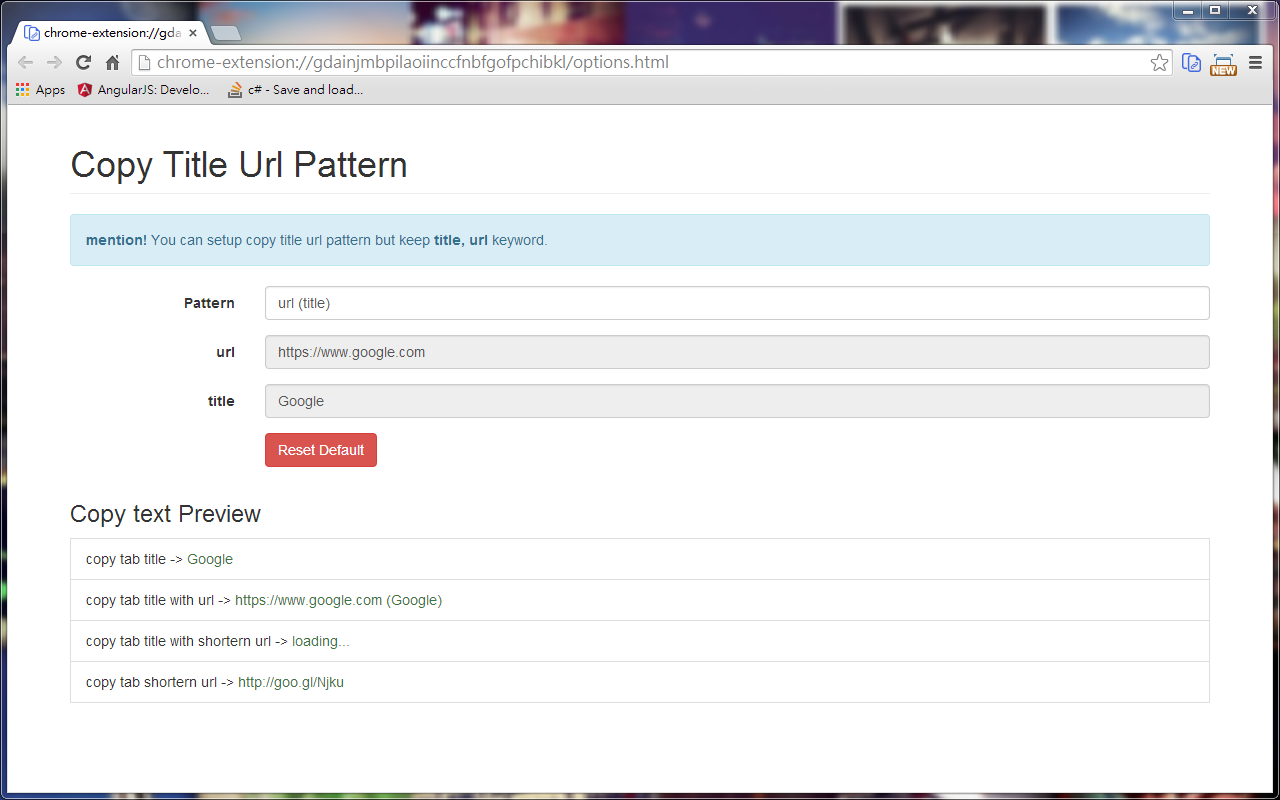
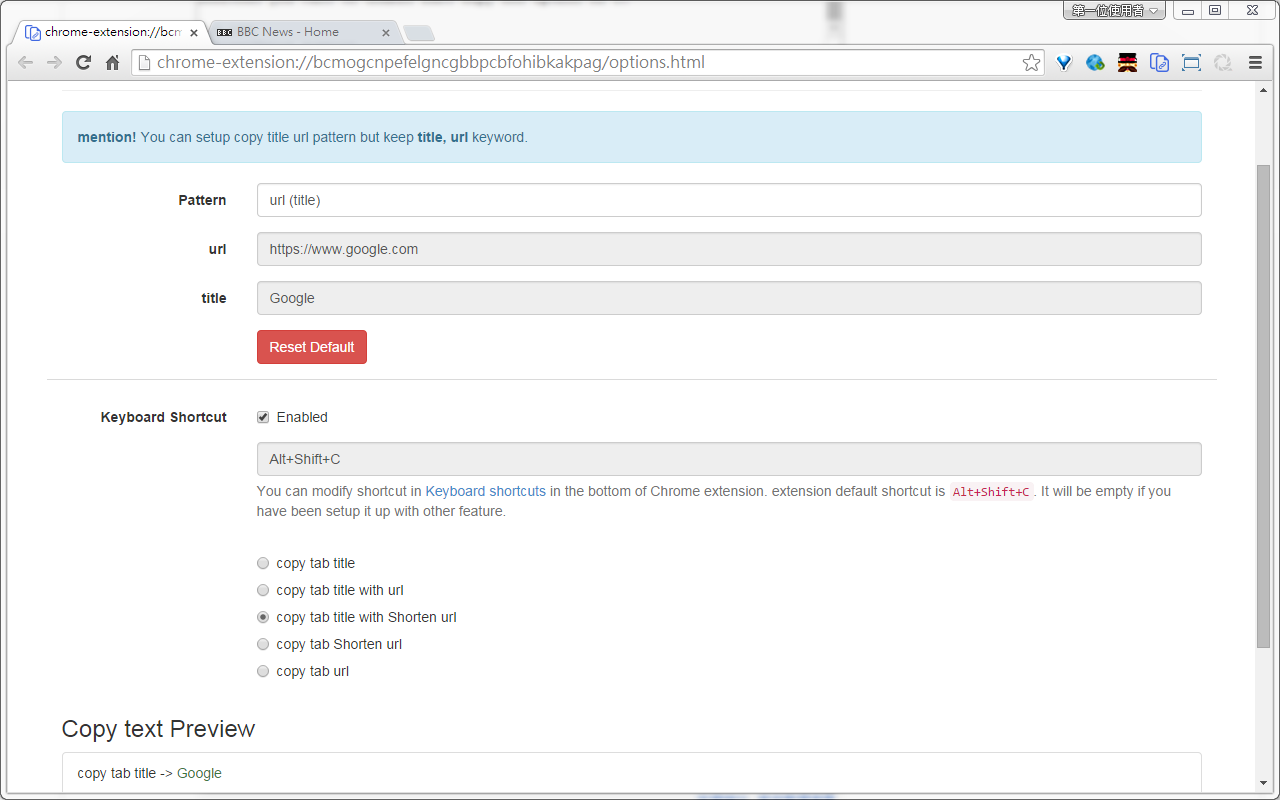
update README.md

Changed region(s): [[0.0, 0.0, 1.0, 1.0]]

diff --git a/README.md b/README.md
@@ -9,11 +9,21 @@ There have four options:
 - copy title only
 - copy title and url 
 - copy title and shorten url
+- copy ulr only
 - copy shorten url only
-
+ 
 Copy title url pattern:
 
 the default copy patter is "url (title)", you can change whatever you want but keep "url" and "title" keyword.
+
+##Change log
+===========
+0.0.109
+chrome shortcut support. Default extension is "Shift+Alt+C". You can setup shortcut you want to enable fast copy one option of 5.
+
+0.0.104 
+contextMenus support.
+
 
 ##Snapshot
 
